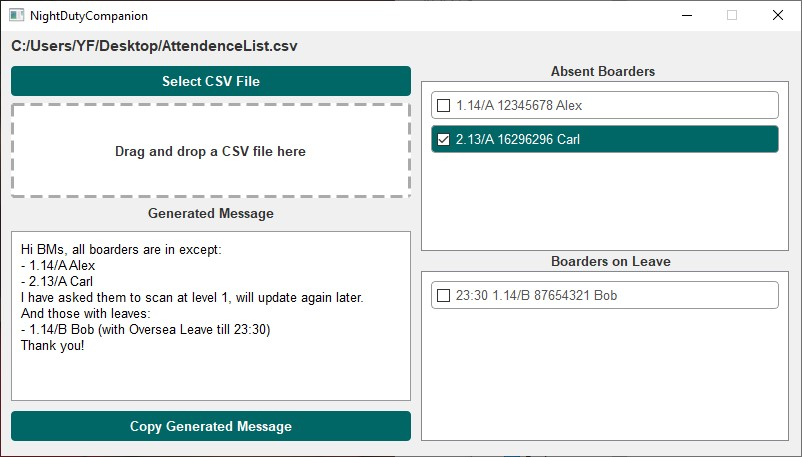
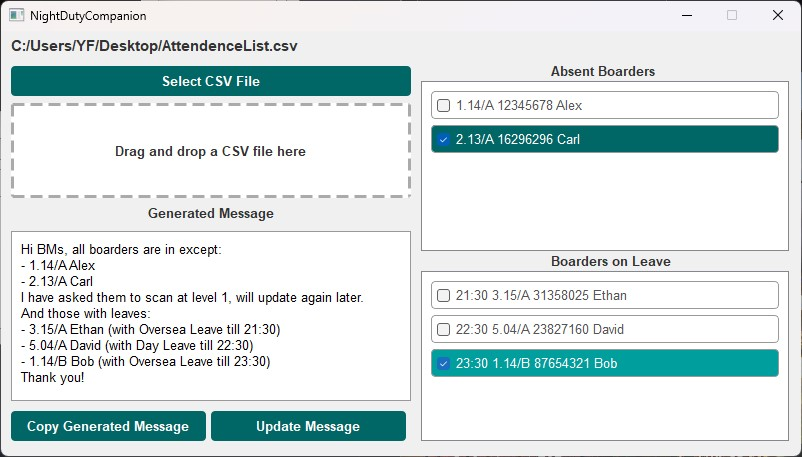
Update README.md

diff --git a/MessageUtils.py b/MessageUtils.py
@@ -15,6 +15,12 @@ def generate_message(absent_boarders, on_leave_boarders):
 
 
 def generate_message_when_no_absentees(on_leave_boarders):
+    """
+    Generate the message to be sent to BMs when there are no absentees.
+
+    :param on_leave_boarders:
+    :return: the message to be sent to BMs
+    """
     if len(on_leave_boarders) == 0:
         return "Hi BMs, all boarders are in and there is no one with leaves today.\nThank you!"
     else:

diff --git a/docs/README.md b/docs/README.md
@@ -1,74 +1,77 @@
-NightDutyCompanion is a simple desktop application designed to assist RIB RAs with RIB routine night duty.
+# NightDutyCompanion User Guide 🌙
 
-![Analysis Result](Result.jpg)
-
-##  User Guide
-
-### Step 1: Export Attendance Data from BMS
+## Step 1: Export Attendance Data from BMS
 
 1. Log in to the BMS (Boarding Management System).
 2. Navigate to the Attendant Listing section.
-3. Look for the button to export today's attendance data
-   
+3. Look for the button to export today's attendance data.
+
    ![BMS Export Button](BMS.jpg)
-   
-4. Click the export button to initiate the download of today's attendance list in .xls format.
-   
+
+4. Click the export button to initiate the download of today's attendance list in `.xls` format.
+
    ![Download](Download.jpg)
-   
-The download will start shortly, and you will have the attendance list saved as a .xls file.
 
-### Step 2: Fixing Corrupted Format Issues
+The download will start shortly, and you will have the attendance list saved as a `.xls` file.
 
-1. Open the downloaded .xls file with Microsoft Excel.
+## Step 2: Fixing Corrupted Format Issues 🛠
+
+1. Open the downloaded `.xls` file with Microsoft Excel.
 2. You may encounter an error stating that the file is in a different format than specified by the file extension.
-   
-   ![Error](Error.jpg)
-   
+
+   :exclamation: **Error**: "The file format and extension of 'filename.xls' don't match. The file could be corrupted or unsafe."
+
 3. Click the "Yes" button to open the file anyway.
-4. In Excel, click the "File" option in the menu bar.
-5. Select "Save As..." to save the file as a .csv (Comma Separated Values) file.
-   
+4. In Excel, click the `File` option in the menu bar.
+5. Select `Save As...` to save the file as a `.csv` (Comma Separated Values) file.
+
    ![Save As CSV](CSV.jpg)
-   
-Saving it as a .csv file helps fix any corrupted format issues.
 
-### Step 3: Running NightDutyCompanion
+Saving it as a `.csv` file helps fix any corrupted format issues.
 
-1. Run the NightDutyCompanion.exe program. A window will appear.
-   
+## Step 3: Running NightDutyCompanion 🚀
+
+1. Run the `NightDutyCompanion.exe` program. A window will appear.
+
    ![NightDutyCompanion Window](Window.jpg)
-   
-2. Upload the .csv file by either clicking the "Select CSV File" button and selecting the file, or simply dragging and dropping the file into the window.
 
-### Step 4: Analyzing Attendance Data
+2. Upload the `.csv` file by either clicking the `Select CSV File` button and selecting the file, or simply dragging and dropping the file into the window.
 
-1. Once the .csv file is uploaded, NightDutyCompanion will automatically analyze the attendance data.
+## Step 4: Analyzing Attendance Data 📊
+
+1. Once the `.csv` file is uploaded, NightDutyCompanion will automatically analyze the attendance data.
 2. The analysis result will be displayed in the window.
-   
+
    ![Analysis Result](Result.jpg)
-   
-   
 
-### Step 5: Copying Generated Message
+## Step 5: Copying Generated Message 📋
 
-1. You can directly copy the generated message by clicking the "Copy Generated Message" button.
+1. You can directly copy the generated message by clicking the `Copy Generated Message` button.
 2. The message will be copied to your clipboard for easy pasting.
-3. The Generated Message section in NightDutyCompanion is editable. Feel free to make any necessary edits to the text as needed.
+3. The `Generated Message` section in NightDutyCompanion is editable. Feel free to make any necessary edits to the text as needed.
 
-### Step 6: Check the Absent Boarders and Boarders on Leave
+## Step 6: Check the Absent Boarders and Boarders on Leave ☑
 
 1. You can use the two checkbox lists on the right side of the app to keep track of the boarders' status.
-2. When an absent or on-leave boarder is back, check the corresponding box to mark them as such. will be highlighted in green, providing better visualization.
+2. When an absent or on-leave boarder is back, check the corresponding box to mark them as such. They will be highlighted in <span style="background-color: #c6f6d5">green</span>, providing better visualization.
 
-## More to Come
+## Step 7: Update the Message with the Latest Status from the Checkbox Lists 🔃
+
+1. When you want to update the BMs with the latest status of the boarders, simply click the `Update Message` button.
+2. The message will be updated with the boarders who are still absent or on leave, based on the status of the checkbox lists.
+3. The message can be copied again by clicking the `Copy Generated Message` button.
+
+   ![Updated Message](Update.jpg)
+
+## More to Come 💡
 
 1. Auto Fix Corrupted XLS Files: NightDutyCompanion will introduce an automatic file format fixing feature. Instead of manually saving the downloaded XLS file as a CSV, the application will handle the conversion process internally, ensuring that any corrupted format issues are resolved seamlessly.
 2. Further UI Beautification: NightDutyCompanion will undergo further UI enhancement to improve the overall visual appeal and user experience. The updated user interface will be more intuitive, user-friendly, and aesthetically pleasing, making it even easier to navigate and use the application effectively.
-3. And more … 
+3. More Customization Options: NightDutyCompanion will introduce more customization options to allow users to tailor the generated message to their needs. Users will be able to customize the message format, the boarders' status, and more.
+4. And more ... ✨
 
-## Disclaimer
+## Disclaimer ⚠
 
-Please note that this project has not undergone rigorous testing and may contain potential bugs and feature flaws. If you encounter any issues or have suggestions for improvements, please kindly contact me or simply raise an issue in the IssueTracker of this Repo. Thank you for your understanding!
+Please note that this project has not undergone rigorous testing and may contain potential bugs and feature flaws. If you encounter any issues or have suggestions for improvements, please kindly contact me or simply raise an issue in the Issue Tracker of this Repo. Thank you for your understanding! 🙏
 
-Enjoy!
+**Enjoy! 🎉**
